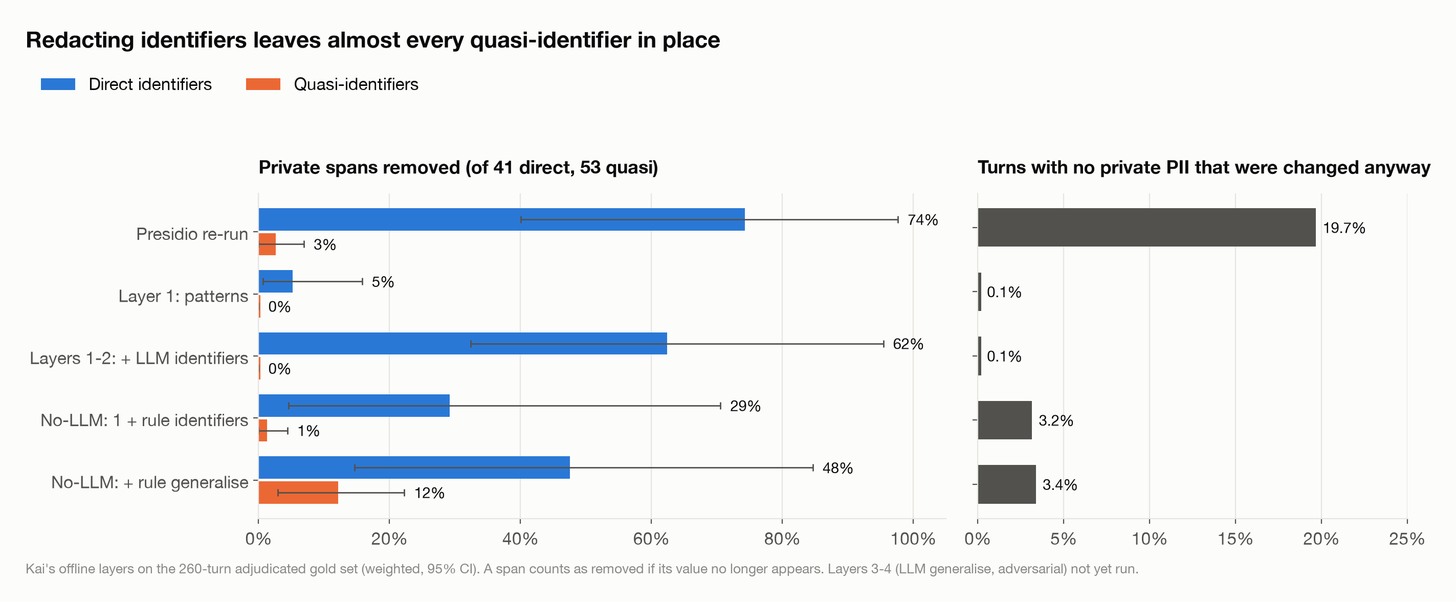
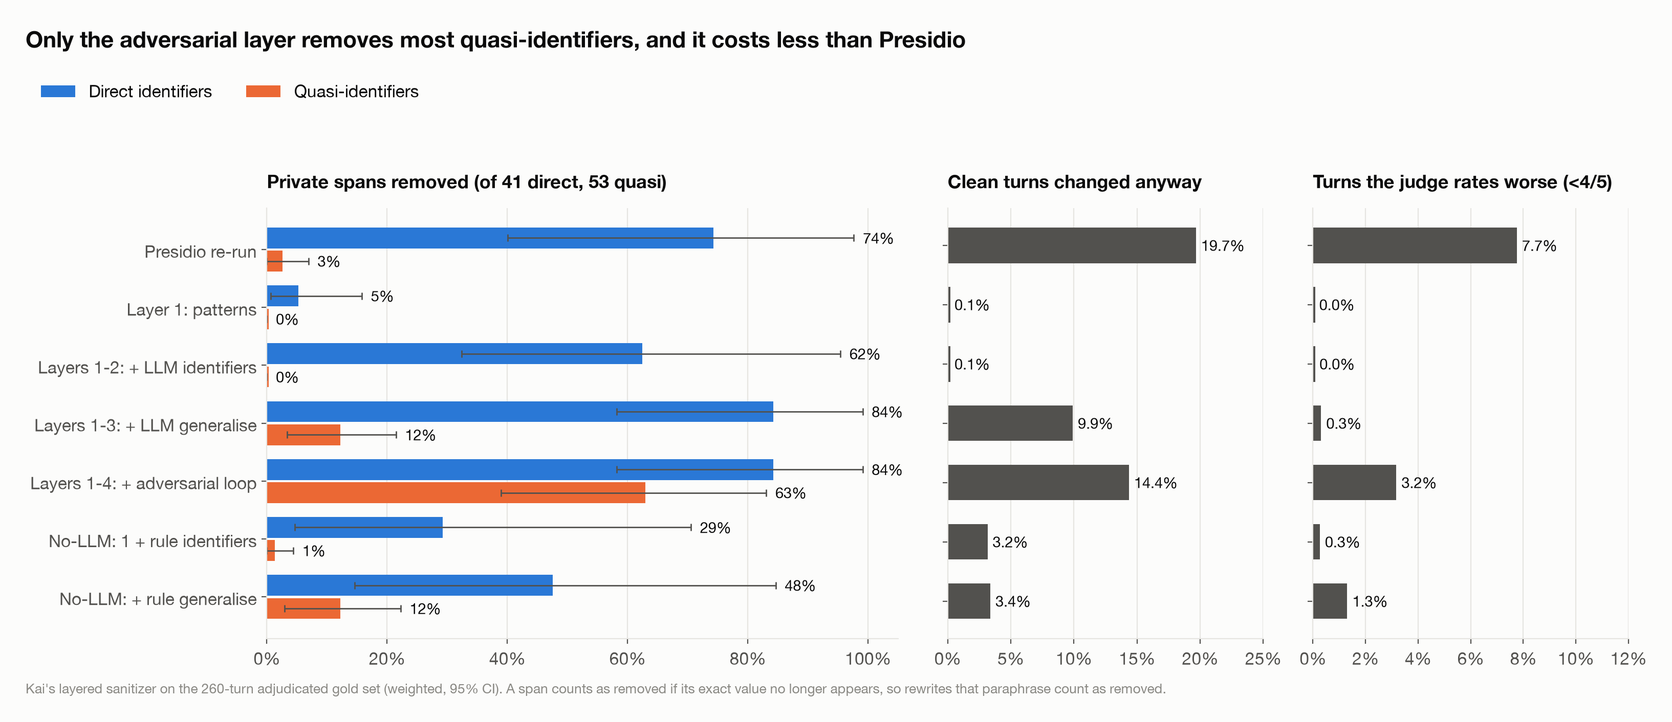
Sanitizer layers 3-4 on the adjudicated gold set
Full four-layer pipeline: 84% of private direct identifiers and 63% of quasi-identifiers removed,
14% of clean turns changed, 3.2% of turns rated below 4; the held-out attacker keeps 5% of its
original inferences. Adds sanitizer_exposure.csv and sanitizer_utility.csv, updates the RQ4 chart,
docs/findings.md and the final report plan.

diff --git a/results/presentation/index.html b/results/presentation/index.html
@@ -7,9 +7,9 @@ code{background:#f0efec;padding:1px 5px;border-radius:4px;font-size:.9em}hr{bord
 li{margin:6px 0}p,li{color:#1d1d1b}</style></head><body><main><h1>Findings: residual personal information in public LLM chat logs</h1>
 <p>A synthesis of Stages 1–3 for the final presentation. Every number comes from aggregate tables in <code>results/</code>. The figures are in <code>results/presentation/figures/</code> and are rebuilt with <code>.venv/bin/python -m residpii.presentation</code>. Details are in <em>stage1_results.md</em>, <em>stage2_results.md</em> and <em>adversarial_pilot.md</em>. The data is WildChat only. No identity was looked up.</p>
 <h2>The answer in four lines</h2>
-<ol><li><strong>What is left.</strong> WildChat's own scrubbing leaves private information in about 1 in 13 user turns. Most of it is quasi-identifiers such as occupation, education and location, not names or emails.</li><li><strong>Can tools find it.</strong> No. Presidio's flags are 96% false alarms, and it finds 31% of what is left. An LLM is 16 times more precise but finds no more, and every tool misses occupation and education.</li><li><strong>Across conversations.</strong> Linking a user's conversations, as the released hashed IP allows, is where the risk builds. 6% of users are unique on what they reveal, rising to 15% of heavy users. For 2% of users, their conversations can be tied back together from content alone.</li><li><strong>Can a sanitizer fix it.</strong> Not by redacting identifiers. Kai's identifier layers remove up to 62% of private direct identifiers but none of the quasi-identifiers. A sanitizer that works on the whole user rewrites about half as many messages as the per-message loop (Staab et al.), and its rewrites stay usable. In a 50-user pilot it protected fewer users, but the gap is not significant. The limit is now the rewrite step, not the idea.</li></ol>
+<ol><li><strong>What is left.</strong> WildChat's own scrubbing leaves private information in about 1 in 13 user turns. Most of it is quasi-identifiers such as occupation, education and location, not names or emails.</li><li><strong>Can tools find it.</strong> No. Presidio's flags are 96% false alarms, and it finds 31% of what is left. An LLM is 16 times more precise but finds no more, and every tool misses occupation and education.</li><li><strong>Across conversations.</strong> Linking a user's conversations, as the released hashed IP allows, is where the risk builds. 6% of users are unique on what they reveal, rising to 15% of heavy users. For 2% of users, their conversations can be tied back together from content alone.</li><li><strong>Can a sanitizer fix it.</strong> Not by redacting identifiers, which removes none of the quasi-identifiers. Kai's full four-layer sanitizer removes 84% of private direct identifiers and 63% of quasi-identifiers on the gold set. It changes fewer clean turns than a Presidio re-run and damages fewer requests. A sanitizer that works on the whole user rewrites about half as many messages as the per-message loop (Staab et al.), and its rewrites stay usable. In a 50-user pilot it protected fewer users, but the gap is not significant. The limit is now the rewrite step, not the idea.</li></ol>
 <h2>Research questions and answers</h2>
-<div class=tw><table><thead><tr><th>#</th><th>Question</th><th>Answer</th><th>Confidence</th></tr></thead><tbody><tr><td>RQ1</td><td>How much personal information remains after WildChat's scrubbing, by type?</td><td>7.6% of turns hold a private quasi-identifier and 1.5% a private direct identifier. Occupation (4.5%) is the largest category.</td><td>Medium: 260 gold turns, wide CIs</td></tr><tr><td>RQ2</td><td>How accurate is each detection layer, and what does each miss?</td><td>Presidio: 3.8% precise, 31% recall. LLM: 60% precise, 29% recall. Together they reach 57% recall at 8.8% precision. Occupation and education are 0–14% everywhere.</td><td>Overall figures are robust; per-category figures are indicative</td></tr><tr><td>RQ3</td><td>How much more does a user expose across conversations than in one?</td><td>One attribute singles out 2% of users and two attributes 5.9%. Uniqueness rises from 3% of users with 3 conversations to 15% of those with over 50. 2.1% can be re-linked (chance: 0.05%).</td><td>Medium: extractor recall is 29%</td></tr><tr><td>RQ4</td><td>Can a sanitizer leave less behind, and at what cost? How much stays inferable?</td><td>On the gold set, layers 1–2 remove 62% of private direct identifiers and 0% of quasi-identifiers, changing 0.1% of clean turns. Rule-based generalising removes 12% of quasi-identifiers. After direct identifiers are removed, a held-out attacker still puts 23 of 50 pilot users at risk. The per-message loop leaves 13, and the best user-level loop leaves 17 while changing 42% fewer messages.</td><td>Gold-set layers: medium. Loops: pilot only (p = 0.73)</td></tr></tbody></table></div>
+<div class=tw><table><thead><tr><th>#</th><th>Question</th><th>Answer</th><th>Confidence</th></tr></thead><tbody><tr><td>RQ1</td><td>How much personal information remains after WildChat's scrubbing, by type?</td><td>7.6% of turns hold a private quasi-identifier and 1.5% a private direct identifier. Occupation (4.5%) is the largest category.</td><td>Medium: 260 gold turns, wide CIs</td></tr><tr><td>RQ2</td><td>How accurate is each detection layer, and what does each miss?</td><td>Presidio: 3.8% precise, 31% recall. LLM: 60% precise, 29% recall. Together they reach 57% recall at 8.8% precision. Occupation and education are 0–14% everywhere.</td><td>Overall figures are robust; per-category figures are indicative</td></tr><tr><td>RQ3</td><td>How much more does a user expose across conversations than in one?</td><td>One attribute singles out 2% of users and two attributes 5.9%. Uniqueness rises from 3% of users with 3 conversations to 15% of those with over 50. 2.1% can be re-linked (chance: 0.05%).</td><td>Medium: extractor recall is 29%</td></tr><tr><td>RQ4</td><td>Can a sanitizer leave less behind, and at what cost? How much stays inferable?</td><td>On the gold set, layers 1–2 remove 62% of private direct identifiers and 0% of quasi-identifiers. All four layers remove 84% and 63%, change 14% of clean turns and rate 97% of turns still usable; a held-out attacker's confident inferences fall from 10.5% of turns to 5.8%. After direct identifiers are removed, a held-out attacker still puts 23 of 50 pilot users at risk. The per-message loop leaves 13, and the best user-level loop leaves 17 while changing 42% fewer messages.</td><td>Gold-set layers: medium. Loops: pilot only (p = 0.73)</td></tr></tbody></table></div>
 <hr>
 <h2>RQ1: What remains after scrubbing?</h2>
 <figure><img src="figures/rq1_residual_prevalence.png" alt="Residual prevalence"></figure>
@@ -32,12 +32,13 @@ li{margin:6px 0}p,li{color:#1d1d1b}</style></head><body><main><h1>Findings: resi
 <h3>Kai's layered sanitizer on the gold set</h3>
 <p>Kai's sanitizer (<code>residpii sanitize</code>) applies cumulative layers:</p>
 <ol><li>patterns (emails, phones, keys, paths);</li><li>direct identifiers the LLM detector judged private;</li><li>LLM generalising ("a nurse in Leeds" becomes "a healthcare worker in the UK");</li><li>the per-message adversarial loop.</li></ol>
-<p>It also has an alternative without an LLM, built from spaCy and lookup tables. A private gold span counts as removed if its value no longer appears in the sanitized text. Layers 3–4 need API calls and have not been run on the gold set.</p>
+<p>It also has an alternative without an LLM, built from spaCy and lookup tables. A private gold span counts as removed if its exact value no longer appears in the sanitized text. A held-out attacker (Claude Sonnet 5.5) also tries to infer attributes from each sanitized turn, and a judge (Haiku) rates whether the request can still be answered. Layers 3–4 cost $4.93 for the 260 turns.</p>
 <figure><img src="figures/rq4_layered_sanitizer.png" alt="Layered sanitizer on the gold set"></figure>
-<div class=tw><table><thead><tr><th>Stage (cumulative)</th><th>Direct removed (of 41)</th><th>Quasi removed (of 53)</th><th>Clean turns changed</th><th>Redactions that hit no private span</th></tr></thead><tbody><tr><td>WildChat as released</td><td>0%</td><td>0%</td><td>0%</td><td></td></tr><tr><td>Presidio re-run</td><td>74%</td><td>3%</td><td>19.7%</td><td>97% of 421</td></tr><tr><td>Layer 1: patterns</td><td>5%</td><td>0%</td><td>0.1%</td><td>56% of 27</td></tr><tr><td>Layers 1–2: + LLM identifiers</td><td>62%</td><td>0%</td><td>0.1%</td><td>23% of 39</td></tr><tr><td>No LLM: 1 + rule identifiers</td><td>29%</td><td>1%</td><td>3.2%</td><td>90% of 93</td></tr><tr><td>No LLM: + rule generalise</td><td>48%</td><td>12%</td><td>3.4%</td><td>80% of 120</td></tr></tbody></table></div>
-<p>Source: <code>results/default/tables/sanitizer_leakage.csv</code> and <code>sanitizer_overredaction.csv</code> (gold = adjudicated), with weighted 95% CIs. The direct removal rates have wide intervals (layers 1–2: 32–95%).</p>
+<div class=tw><table><thead><tr><th>Stage (cumulative)</th><th>Direct removed (of 41)</th><th>Quasi removed (of 53)</th><th>Clean turns changed</th><th>Redactions that hit no private span</th></tr></thead><tbody><tr><td>WildChat as released</td><td>0%</td><td>0%</td><td>0%</td><td></td></tr><tr><td>Presidio re-run</td><td>74%</td><td>3%</td><td>19.7%</td><td>97% of 421</td></tr><tr><td>Layer 1: patterns</td><td>5%</td><td>0%</td><td>0.1%</td><td>56% of 27</td></tr><tr><td>Layers 1–2: + LLM identifiers</td><td>62%</td><td>0%</td><td>0.1%</td><td>23% of 39</td></tr><tr><td>Layers 1–3: + LLM generalise</td><td>84%</td><td>12%</td><td>9.9%</td><td></td></tr><tr><td>Layers 1–4: + adversarial loop</td><td>84%</td><td><strong>63%</strong></td><td>14.4%</td><td></td></tr><tr><td>No LLM: 1 + rule identifiers</td><td>29%</td><td>1%</td><td>3.2%</td><td>90% of 93</td></tr><tr><td>No LLM: + rule generalise</td><td>48%</td><td>12%</td><td>3.4%</td><td>80% of 120</td></tr></tbody></table></div>
+<div class=tw><table><thead><tr><th>Stage</th><th>Turns rated worse (judge &lt;4/5)</th><th>Turns with a confident inference (held-out attacker)</th><th>Original inferences still made</th></tr></thead><tbody><tr><td>WildChat as released</td><td></td><td>10.5%</td><td>100% of 52</td></tr><tr><td>Presidio re-run</td><td>7.7%</td><td>10.5%</td><td>50%</td></tr><tr><td>Layers 1–2</td><td>0.0%</td><td>11.9%</td><td>55%</td></tr><tr><td>Layers 1–3</td><td>0.3%</td><td>11.9%</td><td>46%</td></tr><tr><td>Layers 1–4</td><td>3.2%</td><td><strong>5.8%</strong></td><td><strong>5%</strong></td></tr><tr><td>No LLM: + rule generalise</td><td>1.3%</td><td>11.4%</td><td>31%</td></tr></tbody></table></div>
+<p>Sources: <code>results/default/tables/sanitizer_leakage.csv</code>, <code>sanitizer_overredaction.csv</code>, <code>sanitizer_exposure.csv</code> and <code>sanitizer_utility.csv</code> (gold = adjudicated), with weighted 95% CIs. The intervals are wide (layers 1–4, quasi removed: 39–83%).</p>
 <p><strong>What it means.</strong></p>
-<ul><li><strong>The LLM layer is the precise way to remove identifiers.</strong> Layers 1–2 remove nearly as many direct identifiers as a Presidio re-run (62% against 74%). They change 0.1% of clean turns, where Presidio changes 20%, and 77% of their redactions hit real private PII, against 3% for Presidio.</li><li><strong>No identifier layer touches quasi-identifiers.</strong> 100% of private occupation, education, location and similar spans survive layers 1–2. The rules' generalising step is the only one that removes any (12%). This is the gap that layers 3–4 and the user-level loop exist to close.</li></ul>
+<ul><li><strong>The LLM layer is the precise way to remove identifiers.</strong> Layers 1–2 remove nearly as many direct identifiers as a Presidio re-run (62% against 74%). They change 0.1% of clean turns, where Presidio changes 20%, and 77% of their redactions hit real private PII, against 3% for Presidio.</li><li><strong>No identifier layer touches quasi-identifiers.</strong> 100% of private occupation, education, location and similar spans survive layers 1–2.</li><li><strong>Generalising alone barely helps.</strong> LLM generalising (layer 3) removes only 12% of quasi-identifiers, the same as the rule-based version, while changing 10% of clean turns.</li><li><strong>The adversarial loop does the work.</strong> Layer 4 removes 63% of quasi-identifiers. The held-out attacker still makes only 5% of the inferences it could make from the original text, and turns with any confident inference halve (10.5% to 5.8%).</li><li><strong>The full pipeline costs less than Presidio.</strong> Layers 1–4 change fewer clean turns (14% against 20%) and damage fewer requests (3.2% against 7.7% rated below 4), while removing more on both tiers.</li><li><strong>Caveats.</strong> Removal is an exact-string check, so a paraphrase that keeps the meaning counts as removed. The attacker result is the better guide to what stays inferable. The sample is small (53 quasi-identifier spans in 24 turns). The judge is a cheap model and rates nearly everything usable.</li></ul>
 <h3>Protecting users, not messages</h3>
 <p>The RQ3 finding motivates the design: protect the <strong>user</strong>, not the message. The user-level loop pools what an attacker infers across all of a user's messages. It removes the attribute whose removal makes the user least unique, and it rewrites only the messages that reveal that attribute. A rewrite is kept only if a judge rates it usable. It is compared with the per-message loop of Staab et al. (Kai's layer 4), and both are graded by a stronger held-out attacker that neither loop sees.</p>
 <figure><img src="figures/rq4_sanitizer_tradeoff.png" alt="Trade-off"></figure>
@@ -50,6 +51,6 @@ li{margin:6px 0}p,li{color:#1d1d1b}</style></head><body><main><h1>Findings: resi
 <h2>What this means overall</h2>
 <ul><li><strong>Released chat logs are not de-identified in the sense that matters.</strong> Direct identifiers are largely gone. The information that lets someone be singled out (occupation, education, location, health) remains, and it is not what the scrubbing was built to catch.</li><li><strong>Per-message tools are the wrong unit.</strong> Risk builds up across a user's conversations, and releasing a user-linking key such as <code>hashed_ip</code> turns many harmless messages into one identifying profile. Dataset releases should weigh that key's research value against this risk.</li><li><strong>Better detectors help precision, not coverage.</strong> An LLM removes most of Presidio's false alarms, but neither finds most of what is left. Detection alone will not close the gap.</li><li><strong>User-level sanitizing is promising but unfinished.</strong> It is cheaper per message protected and keeps text usable. It needs a stronger rewrite step, and a stronger in-loop attacker, before it can match the per-message loop on protection.</li></ul>
 <h2>Limitations to state on the slides</h2>
-<ul><li>The study covers one dataset (WildChat), a 260-turn gold set, 1,982 users and a 50-user pilot. Per-category and pilot differences are within noise.</li><li>Gold attributes come from one annotator. Agreement on quasi-identifiers was moderate (κ 0.41).</li><li>The extractor is weak (29% recall, 40% precision), so uniqueness is not a clean bound either way.</li><li><code>hashed_ip</code> is a rough user proxy: shared IPs merge people, and changing IPs split them.</li><li>Uniqueness is measured within the sample. It means a user can be distinguished, not identified. No one was identified.</li><li>Every attacker and judge is an LLM. Rewrite usefulness is one model's rating, not a user study.</li><li>The LLM detector is not deterministic. Two separate Haiku runs over the same 11,436 turns agree on full-sample prevalence: 4.3% and 4.5% of conversations have a private direct identifier. They disagree on individual gold spans, though, enough to move layer-2 leakage on 24 spans from 16% to 52%. All gold-set numbers here use our run.</li><li>Third-party spans are 9 of the 94 private gold spans, in 4 turns. Counting only the writer's own spans moves LLM precision from 60% to 54%, LLM recall from 29% to 25% and Presidio recall from 31% to 30%, all well inside the confidence intervals.</li><li>Stage 2 includes turns that repeat a shared prompt (13% of its turns, mostly one user reusing their own prompt). Dropping them leaves uniqueness at 5.9%.</li><li>All models ran at low or medium effort and with cheap tiers. The total API spend was about $14.</li></ul>
+<ul><li>The study covers one dataset (WildChat), a 260-turn gold set, 1,982 users and a 50-user pilot. Per-category and pilot differences are within noise.</li><li>Gold attributes come from one annotator. Agreement on quasi-identifiers was moderate (κ 0.41).</li><li>The extractor is weak (29% recall, 40% precision), so uniqueness is not a clean bound either way.</li><li><code>hashed_ip</code> is a rough user proxy: shared IPs merge people, and changing IPs split them.</li><li>Uniqueness is measured within the sample. It means a user can be distinguished, not identified. No one was identified.</li><li>Every attacker and judge is an LLM. Rewrite usefulness is one model's rating, not a user study.</li><li>The LLM detector is not deterministic. Two separate Haiku runs over the same 11,436 turns agree on full-sample prevalence: 4.3% and 4.5% of conversations have a private direct identifier. They disagree on individual gold spans, though, enough to move layer-2 leakage on 24 spans from 16% to 52%. All gold-set numbers here use our run.</li><li>Third-party spans are 9 of the 94 private gold spans, in 4 turns. Counting only the writer's own spans moves LLM precision from 60% to 54%, LLM recall from 29% to 25% and Presidio recall from 31% to 30%, all well inside the confidence intervals.</li><li>Stage 2 includes turns that repeat a shared prompt (13% of its turns, mostly one user reusing their own prompt). Dropping them leaves uniqueness at 5.9%.</li><li>All models ran at low or medium effort and with cheap tiers. The total API spend was about $19.</li></ul>
 <h2>Next steps</h2>
-<ol><li>Strengthen the rewrite step: retry gently when a rewrite fails the utility check, and rewrite only the relevant part of long messages (about $1–2).</li><li>Use a stronger attacker inside the loop (Sonnet, with Opus held out), at about $15–20.</li><li>Re-run the chosen loop on 200 or more users so the differences can be tested.</li><li>Run Kai's layers 3–4 (LLM generalise and the adversarial loop) on the gold set (estimated at up to $22), so the whole pipeline is scored against the same adjudicated labels.</li><li>Build a larger, two-annotator gold set for attributes.</li></ol></main></body></html>
+<ol><li>Strengthen the rewrite step: retry gently when a rewrite fails the utility check, and rewrite only the relevant part of long messages (about $1–2).</li><li>Use a stronger attacker inside the loop (Sonnet, with Opus held out), at about $15–20.</li><li>Re-run the chosen loop on 200 or more users so the differences can be tested.</li><li>Build a larger, two-annotator gold set for attributes.</li></ol></main></body></html>

diff --git a/src/residpii/presentation.py b/src/residpii/presentation.py
@@ -317,9 +317,11 @@ def fig_layered_sanitizer():
     lk = pd.read_csv(S1 / "sanitizer_leakage.csv").query("metric == 'span_leak_rate'")
     ov = pd.read_csv(S1 / "sanitizer_overredaction.csv").query("metric == 'clean_turns_changed'")
     stages = [("Presidio re-run", "presidio"), ("Layer 1: patterns", "patterns"),
-              ("Layers 1-2: + LLM identifiers", "llm_identifiers"),
+              ("Layers 1-2: + LLM identifiers", "llm_identifiers"), ("Layers 1-3: + LLM generalise", "generalize"),
+              ("Layers 1-4: + adversarial loop", "adversarial"),
               ("No-LLM: 1 + rule identifiers", "rules_identifiers"), ("No-LLM: + rule generalise", "rules_generalize")]
-    fig, (a1, a2) = plt.subplots(1, 2, figsize=(14, 5.4), gridspec_kw={"width_ratios": [1.6, 1]})
+    ut = pd.read_csv(S1 / "sanitizer_utility.csv").query("metric == 'share_score_4_plus'").set_index("stage")
+    fig, (a1, a2, a3) = plt.subplots(1, 3, figsize=(16, 6.6), gridspec_kw={"width_ratios": [1.6, 0.8, 0.8]})
     h = 0.36
     for j, (lab, tier, col) in enumerate([("Direct identifiers", "direct", BLUE), ("Quasi-identifiers", "quasi", ORANGE)]):
         for i, (_, s) in enumerate(stages):
@@ -345,12 +347,22 @@ def fig_layered_sanitizer():
     _pct(a2)
     a2.set_xlim(0, 0.25)
     a2.grid(axis="y", visible=False)
-    a2.set_title("Turns with no private PII that were changed anyway", fontsize=13)
-    fig.suptitle("Redacting identifiers leaves almost every quasi-identifier in place",
+    a2.set_title("Clean turns changed anyway", fontsize=13)
+    for i, (_, s_) in enumerate(stages):
+        v = 1 - ut.loc[s_].value
+        a3.barh(i, max(v, 0.001), height=0.6, color=INK2)
+        a3.text(v + 0.002, i, f"{v:.1%}", va="center", fontsize=10.5)
+    a3.set_yticks(range(len(stages)), [""] * len(stages))
+    a3.invert_yaxis()
+    _pct(a3)
+    a3.set_xlim(0, 0.12)
+    a3.grid(axis="y", visible=False)
+    a3.set_title("Turns the judge rates worse (<4/5)", fontsize=13)
+    fig.suptitle("Only the adversarial layer removes most quasi-identifiers, and it costs less than Presidio",
                  x=0.01, ha="left", fontsize=16, fontweight="bold")
     fig.tight_layout(rect=(0, 0, 1, 0.86))
-    _note(fig, "Kai's offline layers on the 260-turn adjudicated gold set (weighted, 95% CI). A span counts as removed "
-               "if its value no longer appears. Layers 3-4 (LLM generalise, adversarial) not yet run.")
+    _note(fig, "Kai's layered sanitizer on the 260-turn adjudicated gold set (weighted, 95% CI). A span counts as removed "
+               "if its exact value no longer appears, so rewrites that paraphrase count as removed.")
     _save(fig, "rq4_layered_sanitizer")
 
 

diff --git a/docs/findings.md b/docs/findings.md
@@ -11,7 +11,7 @@ A synthesis of Stages 1–3 for the final presentation. Every number comes from 
 1. **What is left.** WildChat's own scrubbing leaves private information in about 1 in 13 user turns. Most of it is quasi-identifiers such as occupation, education and location, not names or emails.
 2. **Can tools find it.** No. Presidio's flags are 96% false alarms, and it finds 31% of what is left. An LLM is 16 times more precise but finds no more, and every tool misses occupation and education.
 3. **Across conversations.** Linking a user's conversations, as the released hashed IP allows, is where the risk builds. 6% of users are unique on what they reveal, rising to 15% of heavy users. For 2% of users, their conversations can be tied back together from content alone.
-4. **Can a sanitizer fix it.** Not by redacting identifiers. Kai's identifier layers remove up to 62% of private direct identifiers but none of the quasi-identifiers. A sanitizer that works on the whole user rewrites about half as many messages as the per-message loop (Staab et al.), and its rewrites stay usable. In a 50-user pilot it protected fewer users, but the gap is not significant. The limit is now the rewrite step, not the idea.
+4. **Can a sanitizer fix it.** Not by redacting identifiers, which removes none of the quasi-identifiers. Kai's full four-layer sanitizer removes 84% of private direct identifiers and 63% of quasi-identifiers on the gold set. It changes fewer clean turns than a Presidio re-run and damages fewer requests. A sanitizer that works on the whole user rewrites about half as many messages as the per-message loop (Staab et al.), and its rewrites stay usable. In a 50-user pilot it protected fewer users, but the gap is not significant. The limit is now the rewrite step, not the idea.
 
 ## Research questions and answers
 
@@ -20,7 +20,7 @@ A synthesis of Stages 1–3 for the final presentation. Every number comes from 
 | RQ1 | How much personal information remains after WildChat's scrubbing, by type? | 7.6% of turns hold a private quasi-identifier and 1.5% a private direct identifier. Occupation (4.5%) is the largest category. | Medium: 260 gold turns, wide CIs |
 | RQ2 | How accurate is each detection layer, and what does each miss? | Presidio: 3.8% precise, 31% recall. LLM: 60% precise, 29% recall. Together they reach 57% recall at 8.8% precision. Occupation and education are 0–14% everywhere. | Overall figures are robust; per-category figures are indicative |
 | RQ3 | How much more does a user expose across conversations than in one? | One attribute singles out 2% of users and two attributes 5.9%. Uniqueness rises from 3% of users with 3 conversations to 15% of those with over 50. 2.1% can be re-linked (chance: 0.05%). | Medium: extractor recall is 29% |
-| RQ4 | Can a sanitizer leave less behind, and at what cost? How much stays inferable? | On the gold set, layers 1–2 remove 62% of private direct identifiers and 0% of quasi-identifiers, changing 0.1% of clean turns. Rule-based generalising removes 12% of quasi-identifiers. After direct identifiers are removed, a held-out attacker still puts 23 of 50 pilot users at risk. The per-message loop leaves 13, and the best user-level loop leaves 17 while changing 42% fewer messages. | Gold-set layers: medium. Loops: pilot only (p = 0.73) |
+| RQ4 | Can a sanitizer leave less behind, and at what cost? How much stays inferable? | On the gold set, layers 1–2 remove 62% of private direct identifiers and 0% of quasi-identifiers. All four layers remove 84% and 63%, change 14% of clean turns and rate 97% of turns still usable; a held-out attacker's confident inferences fall from 10.5% of turns to 5.8%. After direct identifiers are removed, a held-out attacker still puts 23 of 50 pilot users at risk. The per-message loop leaves 13, and the best user-level loop leaves 17 while changing 42% fewer messages. | Gold-set layers: medium. Loops: pilot only (p = 0.73) |
 
 ---
 
@@ -113,8 +113,9 @@ Kai's sanitizer (`residpii sanitize`) applies cumulative layers:
 4. the per-message adversarial loop.
 
 It also has an alternative without an LLM, built from spaCy and lookup tables. A private gold span
-counts as removed if its value no longer appears in the sanitized text. Layers 3–4 need API calls
-and have not been run on the gold set.
+counts as removed if its exact value no longer appears in the sanitized text. A held-out attacker
+(Claude Sonnet 5.5) also tries to infer attributes from each sanitized turn, and a judge (Haiku)
+rates whether the request can still be answered. Layers 3–4 cost $4.93 for the 260 turns.
 
 ![Layered sanitizer on the gold set](../results/presentation/figures/rq4_layered_sanitizer.png)
 
@@ -124,11 +125,23 @@ and have not been run on the gold set.
 | Presidio re-run | 74% | 3% | 19.7% | 97% of 421 |
 | Layer 1: patterns | 5% | 0% | 0.1% | 56% of 27 |
 | Layers 1–2: + LLM identifiers | 62% | 0% | 0.1% | 23% of 39 |
+| Layers 1–3: + LLM generalise | 84% | 12% | 9.9% | |
+| Layers 1–4: + adversarial loop | 84% | **63%** | 14.4% | |
 | No LLM: 1 + rule identifiers | 29% | 1% | 3.2% | 90% of 93 |
 | No LLM: + rule generalise | 48% | 12% | 3.4% | 80% of 120 |
 
-Source: `results/default/tables/sanitizer_leakage.csv` and `sanitizer_overredaction.csv` (gold = adjudicated), with weighted 95% CIs. The direct
-removal rates have wide intervals (layers 1–2: 32–95%).
+| Stage | Turns rated worse (judge <4/5) | Turns with a confident inference (held-out attacker) | Original inferences still made |
+|---|---|---|---|
+| WildChat as released | | 10.5% | 100% of 52 |
+| Presidio re-run | 7.7% | 10.5% | 50% |
+| Layers 1–2 | 0.0% | 11.9% | 55% |
+| Layers 1–3 | 0.3% | 11.9% | 46% |
+| Layers 1–4 | 3.2% | **5.8%** | **5%** |
+| No LLM: + rule generalise | 1.3% | 11.4% | 31% |
+
+Sources: `results/default/tables/sanitizer_leakage.csv`, `sanitizer_overredaction.csv`,
+`sanitizer_exposure.csv` and `sanitizer_utility.csv` (gold = adjudicated), with weighted 95% CIs.
+The intervals are wide (layers 1–4, quasi removed: 39–83%).
 
 **What it means.**
 - **The LLM layer is the precise way to remove identifiers.** Layers 1–2 remove nearly as many
@@ -136,8 +149,19 @@ removal rates have wide intervals (layers 1–2: 32–95%).
   where Presidio changes 20%, and 77% of their redactions hit real private PII, against 3% for
   Presidio.
 - **No identifier layer touches quasi-identifiers.** 100% of private occupation, education,
-  location and similar spans survive layers 1–2. The rules' generalising step is the only one
-  that removes any (12%). This is the gap that layers 3–4 and the user-level loop exist to close.
+  location and similar spans survive layers 1–2.
+- **Generalising alone barely helps.** LLM generalising (layer 3) removes only 12% of
+  quasi-identifiers, the same as the rule-based version, while changing 10% of clean turns.
+- **The adversarial loop does the work.** Layer 4 removes 63% of quasi-identifiers. The held-out
+  attacker still makes only 5% of the inferences it could make from the original text, and turns
+  with any confident inference halve (10.5% to 5.8%).
+- **The full pipeline costs less than Presidio.** Layers 1–4 change fewer clean turns (14% against
+  20%) and damage fewer requests (3.2% against 7.7% rated below 4), while removing more on both
+  tiers.
+- **Caveats.** Removal is an exact-string check, so a paraphrase that keeps the meaning counts as
+  removed. The attacker result is the better guide to what stays inferable. The sample is small
+  (53 quasi-identifier spans in 24 turns). The judge is a cheap model and rates nearly everything
+  usable.
 
 ### Protecting users, not messages
 
@@ -211,7 +235,7 @@ sees.
   31% to 30%, all well inside the confidence intervals.
 - Stage 2 includes turns that repeat a shared prompt (13% of its turns, mostly one user reusing
   their own prompt). Dropping them leaves uniqueness at 5.9%.
-- All models ran at low or medium effort and with cheap tiers. The total API spend was about $14.
+- All models ran at low or medium effort and with cheap tiers. The total API spend was about $19.
 
 ## Next steps
 
@@ -219,6 +243,4 @@ sees.
    only the relevant part of long messages (about $1–2).
 2. Use a stronger attacker inside the loop (Sonnet, with Opus held out), at about $15–20.
 3. Re-run the chosen loop on 200 or more users so the differences can be tested.
-4. Run Kai's layers 3–4 (LLM generalise and the adversarial loop) on the gold set (estimated at up to
-   $22), so the whole pipeline is scored against the same adjudicated labels.
-5. Build a larger, two-annotator gold set for attributes.
+4. Build a larger, two-annotator gold set for attributes.

diff --git a/report/final_report_plan.md b/report/final_report_plan.md
@@ -139,16 +139,24 @@ LLM-only categories, private, as WildChat / LMSYS / Arena:
 
 **Layered sanitizer on the gold set** (gold = adjudicated; layers are cumulative; `sanitizer_leakage.csv`, `sanitizer_overredaction.csv`)
 
-| Stage | Direct removed (of 41) | Quasi removed (of 53) | Clean turns changed |
-|---|---|---|---|
-| Presidio re-run | 74% | 3% | 19.7% |
-| Layer 1: patterns | 5% | 0% | 0.1% |
-| Layers 1–2: + LLM identifiers | 62% | 0% | 0.1% |
-| No LLM: rule identifiers | 29% | 1% | 3.2% |
-| No LLM: + rule generalise | 48% | 12% | 3.4% |
+| Stage | Direct removed (of 41) | Quasi removed (of 53) | Clean turns changed | Rated worse (<4/5) | Attacker's original inferences still made |
+|---|---|---|---|---|---|
+| Presidio re-run | 74% | 3% | 19.7% | 7.7% | 50% |
+| Layer 1: patterns | 5% | 0% | 0.1% | 0.0% | 55% |
+| Layers 1–2: + LLM identifiers | 62% | 0% | 0.1% | 0.0% | 55% |
+| Layers 1–3: + LLM generalise | 84% | 12% | 9.9% | 0.3% | 46% |
+| Layers 1–4: + adversarial loop | 84% | 63% [39–83] | 14.4% | 3.2% | 5% |
+| No LLM: rule identifiers | 29% | 1% | 3.2% | 0.3% | 57% |
+| No LLM: + rule generalise | 48% | 12% | 3.4% | 1.3% | 31% |
 
-Layers 3–4 (LLM generalising and the adversarial loop) have not been run on the gold set yet. The
-estimate is up to about $22.
+- Sources: `sanitizer_exposure.csv` and `sanitizer_utility.csv` alongside the two tables above.
+- Layers 3–4 cost $4.93 for the 260 turns.
+- The held-out attacker is Sonnet 5.5, and it made 52 confident inferences on the original text.
+  With all four layers, turns with any confident inference fall from 10.5% to 5.8%.
+- Removal is an exact-string check, so paraphrases count as removed. Lean on the attacker column
+  for what stays inferable.
+- Headline: only the adversarial layer removes most quasi-identifiers. The full pipeline still
+  changes fewer clean turns and damages fewer requests than a Presidio re-run.
 
 **Hand review of 100 fresh turns** (gold = Kai's review judgments; `review_scores_fresh.csv`)
 
@@ -211,7 +219,6 @@ LaTeX table to drop in:
 
 ## Open items
 
-1. Run layers 3–4 on the gold set (up to about $22) to score the full layered pipeline.
-2. LMSYS/Arena label scores against the LLM annotator need a small change, so that `label score`
+1. LMSYS/Arena label scores against the LLM annotator need a small change, so that `label score`
    can use a different gold set per dataset without overwriting WildChat's tables. Do this only if
    the comparison section needs precision and recall there.
